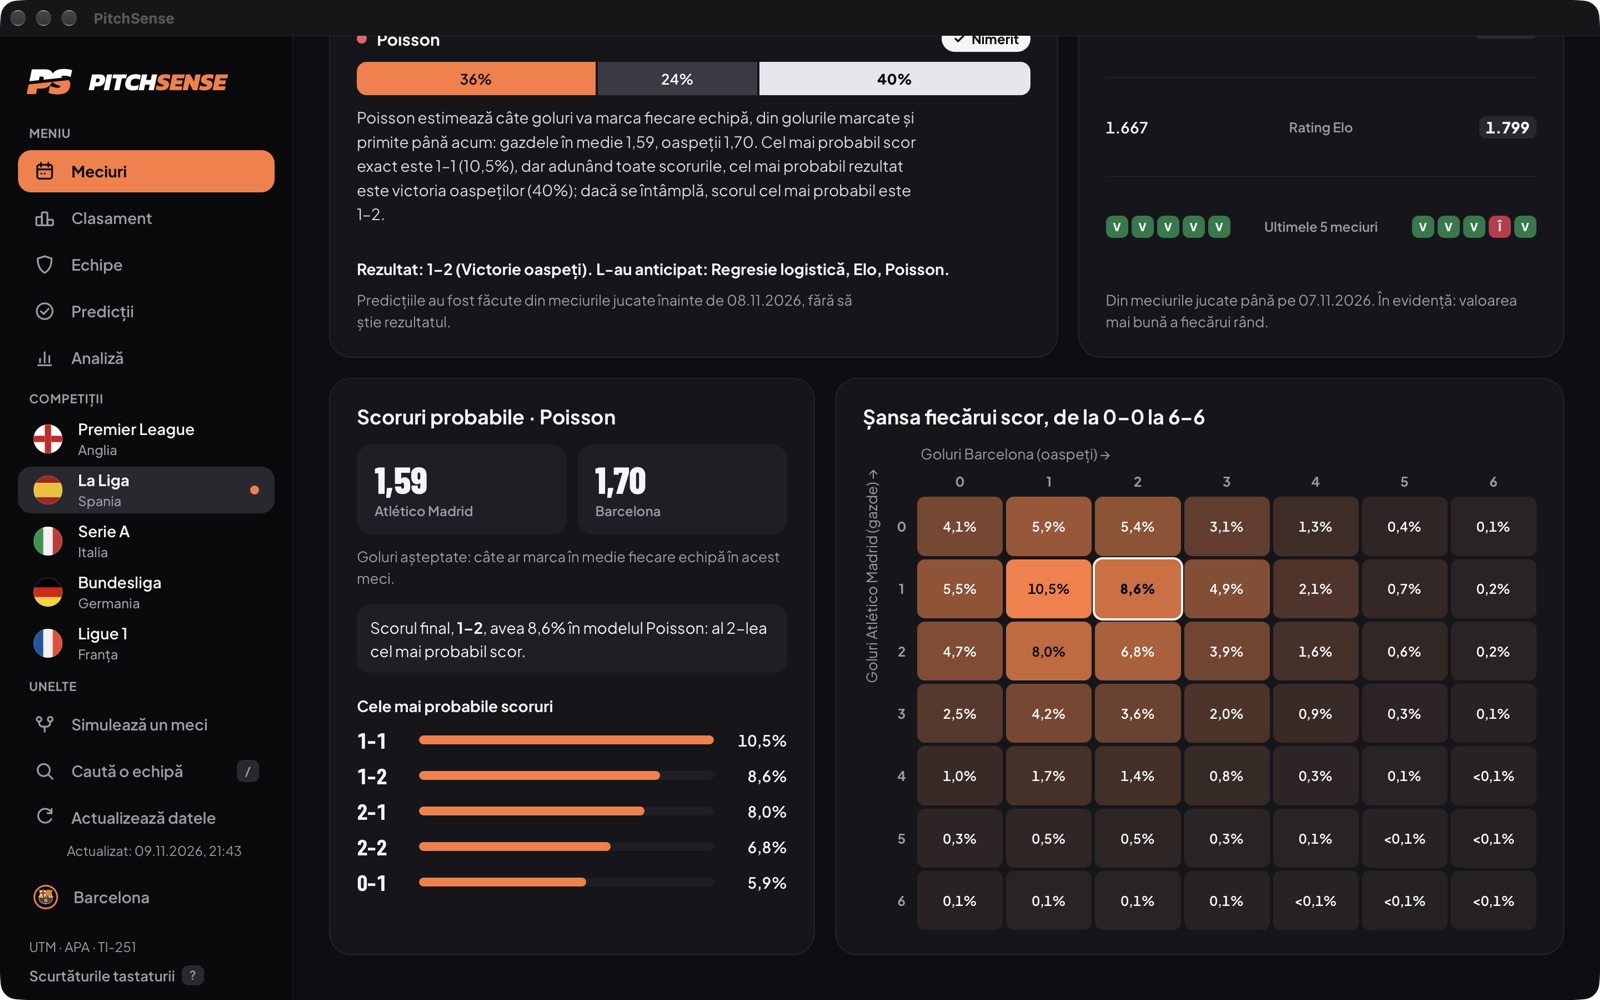
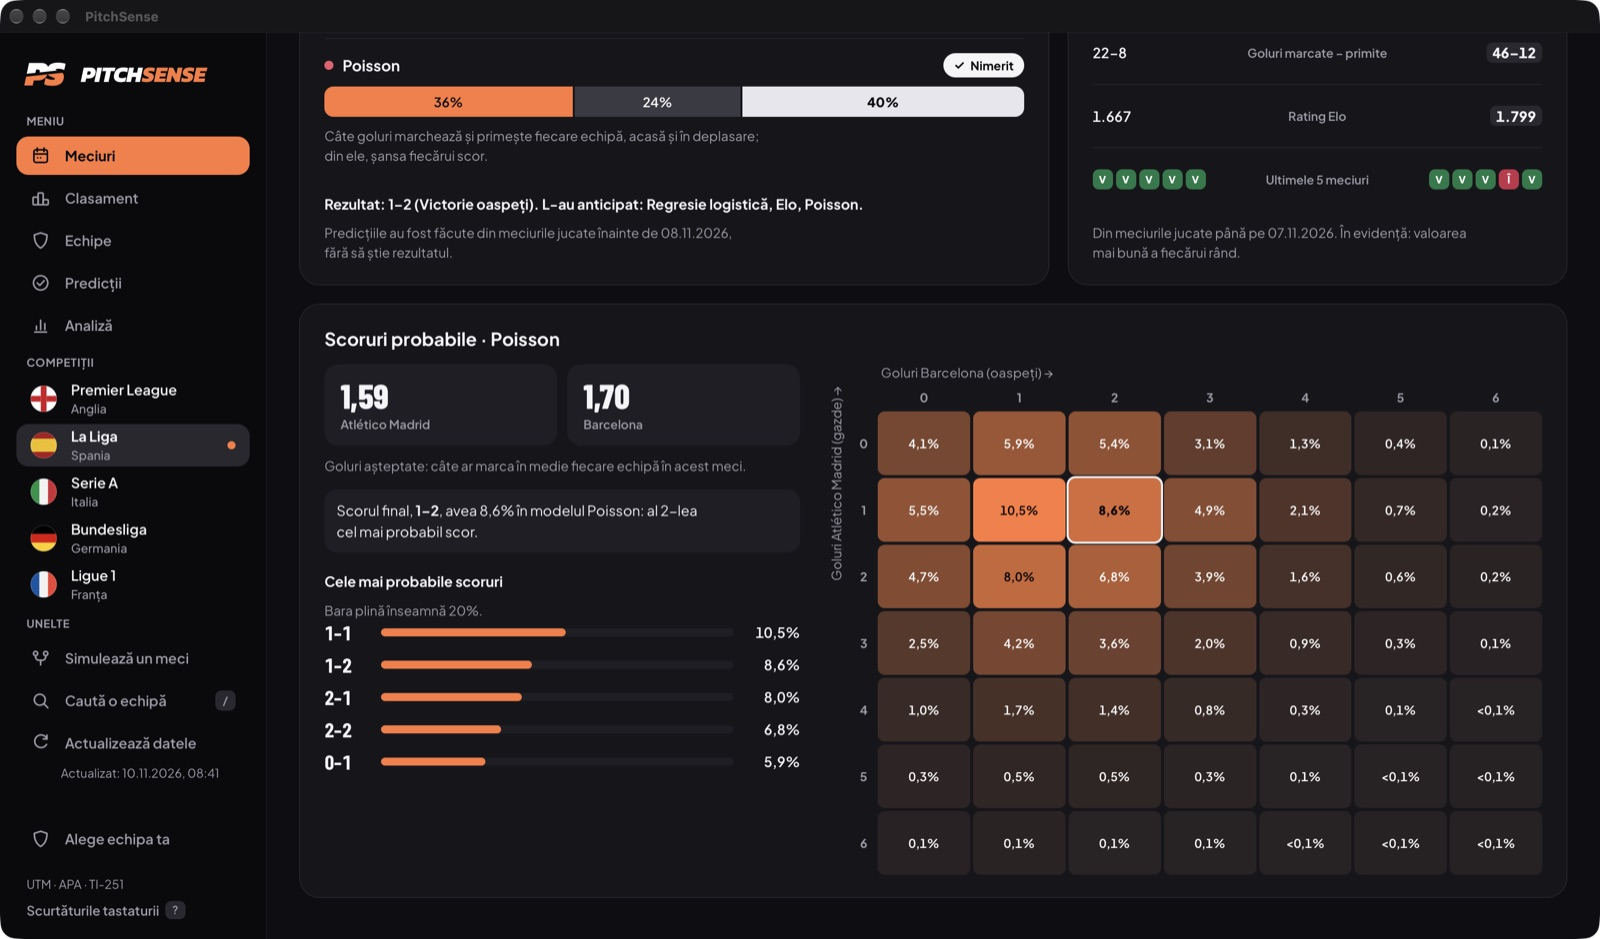
Release 0.9.1 recorded

diff --git a/docs/architecture.md b/docs/architecture.md
@@ -1325,6 +1325,13 @@ La cererea echipei:
 
 Cinci analize `/impeccable critique` au dat 29, 29, 28, 28 și 28 din 40. Câteva propuneri ale lor au fost încercate și apoi respinse de echipă, care le-a găsit prea complicate sau neprofesioniste: raționamente cu calcule pentru fiecare model (inclusiv unul al regresiei logistice din efectele caracteristicilor), o culoare mai ștearsă pentru alegerile sub 50%, un card „Bilanțul sezonului” pe ecranul principal și o grilă Poisson în culoarea modelului sau în gri. „Ce spun modelele” a rămas ca în 0.7.0: barele gazde/egal/oaspeți și câte o propoziție despre ce urmărește fiecare model; dovezile stau în Predicții și Analiză.
 
+### 23.5. Versiunea 0.9.1
+
+Echipa a cerut versiunea 0.9.1 (2026-11-10), publicată pe GitHub (`v0.9.1`), cu capturi noi în README (Meciuri, pagina unui meci, scorurile Poisson, Predicții):
+
+- macOS: `.dmg` de 91 MB, cu baza de date reconstruită (100 de sezoane valide) și sezonul în desfășurare descărcat pe 2026-11-10; semnătura aplicației trece `codesign --verify --deep --strict`; autoverificarea serverului trece din `dist/` și din imaginea `.dmg`; trec cele 799 de teste Python și cele 47 ale interfeței web.
+- Windows (GitHub Actions): trec aceleași 799 de teste Python și 47 ale interfeței web; programul de instalare are 72 MB; autoverificarea trece în pachet și după instalare; serverul instalat are toate ligile gata la 4,9 s după pornire, iar cel pornit de fereastra instalată la 9,3 s după deschiderea ei. Ecranele nu au putut fi privite pe mașina de construire.
+
 ## 24. Setul de date și perioadele
 
 Sursa datelor este Football-Data.co.uk: cinci ligi (Premier League, La Liga, Serie A, Bundesliga, Ligue 1), fiecare cu 20 de sezoane încheiate, 2006/07–2025/26 (36.197 de meciuri). Perioadele sunt aceleași pentru toate ligile. Sezonul în desfășurare (2026/27) este descărcat separat și nu face parte din evaluare (secțiunea 15).

diff --git a/README.md b/README.md
@@ -10,7 +10,7 @@
 </p>
 
 <p align="center">
-  <a href="https://github.com/kirillthehighest/Pitch-Sense/releases/latest"><img alt="Versiunea 0.9.0" src="https://img.shields.io/badge/versiunea-0.9.0-E8622A"></a>
+  <a href="https://github.com/kirillthehighest/Pitch-Sense/releases/latest"><img alt="Versiunea 0.9.1" src="https://img.shields.io/badge/versiunea-0.9.1-E8622A"></a>
   <img alt="macOS și Windows" src="https://img.shields.io/badge/macOS%20%7C%20Windows-desktop-555">
   <img alt="Python 3.14" src="https://img.shields.io/badge/Python-3.14-3776AB?logo=python&logoColor=white">
   <img alt="React și Tauri" src="https://img.shields.io/badge/React%20%2B%20Tauri-interfa%C8%9Ba-24C8DB?logo=tauri&logoColor=white">
@@ -63,7 +63,7 @@ Când regresia logistică dă peste 65% unui rezultat, are dreptate în **76,0%*
 
 <table>
   <tr>
-    <td width="50%"><img src="docs/images/pagina-meci.jpg" alt="Pagina unui meci"><br><sub><b>Pagina unui meci:</b> ce spune fiecare model și de ce</sub></td>
+    <td width="50%"><img src="docs/images/pagina-meci.jpg" alt="Pagina unui meci"><br><sub><b>Pagina unui meci:</b> ce spune fiecare model și cine a nimerit</sub></td>
     <td width="50%"><img src="docs/images/scoruri.jpg" alt="Scorurile probabile"><br><sub><b>Scorurile probabile</b> ale modelului Poisson, cu scorul final încercuit</sub></td>
   </tr>
   <tr>
